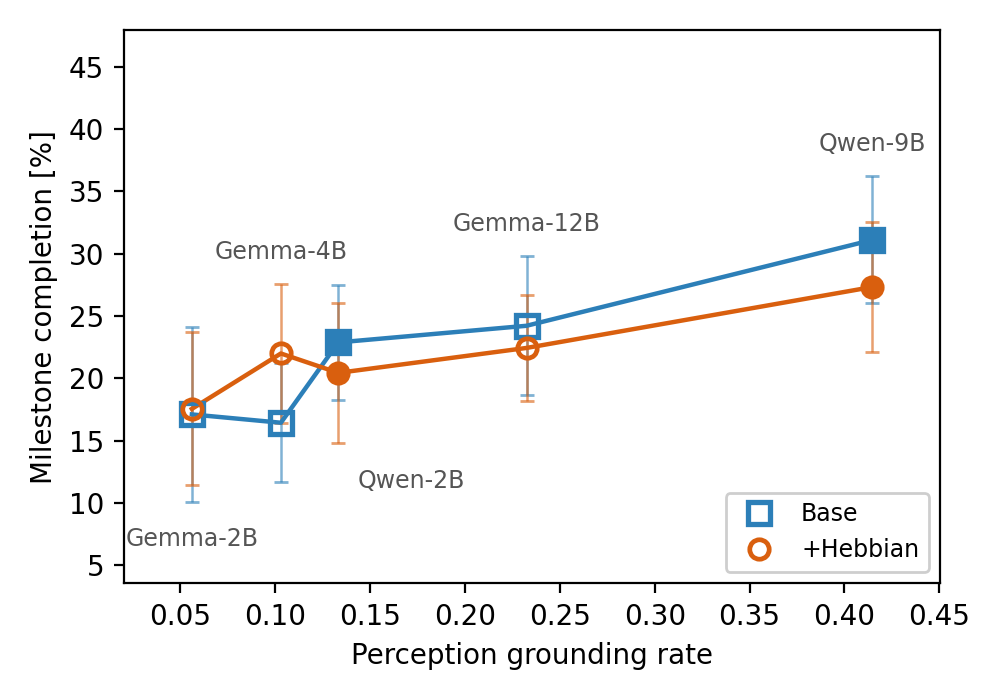
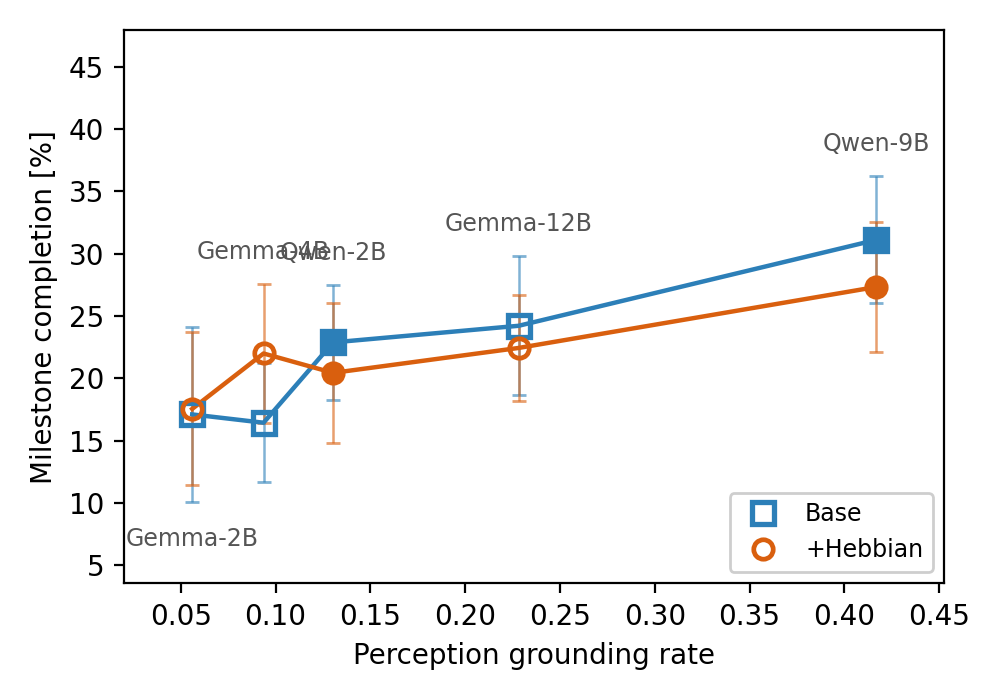
Paper pareto figures: one pooled perception value per model (both arms' runs), used for x and the table rows

diff --git a/scripts/make_pareto_perception_fig.py b/scripts/make_pareto_perception_fig.py
@@ -51,11 +51,16 @@ LABEL_BELOW = {"e2b"}   # models whose label hangs below the lower arm
 
 
 def gather(data, beliefs, sizes, x_key):
-    """{size: {"x": (m, sd), "hal": (m, sd), arm: {"y": (m, sd), "n": n}}}."""
+    """{size: {"x": (m, sd), "hal": (m, sd), arm: {"y": (m, sd)}}}.
+
+    x and hal are ONE value per model, pooled over the runs of BOTH arms:
+    the perception axes are backbone properties (no coupling moves them by
+    more than ~2 pp), so base and +Hebbian share the model's x. y stays
+    per-arm."""
     out = {}
     for size in sizes:
         row = {"family": SIZES[size]["family"]}
-        ok = True
+        gx_all, gp_all, ok = [], [], True
         for arm in ("base", "hebbian"):
             d = data.get((size, arm))
             b = beliefs.get((size, arm), {})
@@ -63,10 +68,12 @@ def gather(data, beliefs, sizes, x_key):
             if not d or not d.get(Y_KEY) or not gx:
                 ok = False
                 break
-            row[arm] = {"x": mean_sd(gx), "y": mean_sd(d[Y_KEY]),
-                        "hal": mean_sd([1.0 - v for v in gp]) if gp else None,
-                        "n": len(gx)}
+            gx_all += gx
+            gp_all += gp
+            row[arm] = {"y": mean_sd(d[Y_KEY]), "n": len(gx)}
         if ok:
+            row["x"] = mean_sd(gx_all)
+            row["hal"] = mean_sd([1.0 - v for v in gp_all]) if gp_all else None
             out[size] = row
         else:
             print("  (skipping {}: incomplete data)".format(size))
@@ -88,13 +95,10 @@ def draw(rows, out_png: Path, xlabel: str, errorbars: str = "none",
     # One line per arm through every model, sorted by x; family on the fill.
     for arm in ("base", "hebbian"):
         st = ARM_STYLE[arm]
-        # BOTH arms sit at the BASE arm's x: the axis is a backbone property
-        # (couplings shift it by <= 2 pp), and per-arm x scattered a model's
-        # two markers so far apart on the partner axis that neighbouring
-        # models interleaved and the point labels became unattributable.
-        # Each model is one vertical base/+Hebbian pair under its label.
-        pts = sorted(((r["base"]["x"][0], r[arm]["y"][0], r["family"],
-                       r["base"]["x"][1], r[arm]["y"][1])
+        # Both arms share the model's pooled x (see gather); each model is
+        # one vertical base/+Hebbian pair under its label.
+        pts = sorted(((r["x"][0], r[arm]["y"][0], r["family"],
+                       r["x"][1], r[arm]["y"][1])
                       for r in rows.values()), key=lambda t: t[0])
         ax.plot([p[0] for p in pts], [p[1] for p in pts], color=st["color"],
                 ls="-", lw=1.6, zorder=2)
@@ -117,13 +121,13 @@ def draw(rows, out_png: Path, xlabel: str, errorbars: str = "none",
     # Point labels: one per model above its higher arm; when a model sits
     # within 10 % of the x-span of its left neighbour the label flips to
     # below-right of the LOWER arm (the social figure's crowd rule).
-    order = sorted(rows, key=lambda s: rows[s]["base"]["x"][0])
-    xs_all = [rows[s]["base"]["x"][0] for s in order]
+    order = sorted(rows, key=lambda s: rows[s]["x"][0])
+    xs_all = [rows[s]["x"][0] for s in order]
     span = (max(xs_all) - min(xs_all)) or 1.0
     prev_x = None
     for size in order:
         r = rows[size]
-        xv = r["base"]["x"][0]          # both arms share the model's x scale
+        xv = r["x"][0]                  # both arms share the model's pooled x
         hi_arm = max(("base", "hebbian"), key=lambda a: r[a]["y"][0])
         lo_arm = min(("base", "hebbian"), key=lambda a: r[a]["y"][0])
         e = 1.0 if errorbars != "none" else 0.0
@@ -175,7 +179,7 @@ def draw(rows, out_png: Path, xlabel: str, errorbars: str = "none",
 def tex_rows(rows) -> str:
     """Rows for tab:pareto_perception: model, grounding, hallucination,
     milestones base / +Heb, delta. Percent with one decimal, sd after \\pmm."""
-    order = sorted(rows, key=lambda s: rows[s]["base"]["x"][0])
+    order = sorted(rows, key=lambda s: rows[s]["x"][0])
     lines = []
     for size in order:
         r = rows[size]
@@ -186,8 +190,8 @@ def tex_rows(rows) -> str:
             " & ${by:.1f}$ \\pmm{{{bs:.1f}}} & ${hy:.1f}$ \\pmm{{{hhs:.1f}}}"
             " & ${d:+.1f}$ \\\\".format(
                 name=SHORT_LABEL.get(size, size),
-                gx=100 * b["x"][0], gs=100 * b["x"][1],
-                hx=100 * b["hal"][0], hs=100 * b["hal"][1],
+                gx=100 * r["x"][0], gs=100 * r["x"][1],
+                hx=100 * r["hal"][0], hs=100 * r["hal"][1],
                 by=b["y"][0], bs=b["y"][1], hy=h["y"][0], hhs=h["y"][1], d=d))
     return "\n".join(lines) + "\n"
 
@@ -229,10 +233,10 @@ def main():
 
     print("  {:<10} {:>7} {:>7} {:>12} {:>12} {:>7}".format(
         "model", "ground", "halluc", "milest base", "milest +Heb", "delta"))
-    for size in sorted(rows, key=lambda s: rows[s]["base"]["x"][0]):
+    for size in sorted(rows, key=lambda s: rows[s]["x"][0]):
         r = rows[size]
         print("  {:<10} {:7.3f} {:7.3f} {:6.1f}±{:<5.1f} {:6.1f}±{:<5.1f} {:+7.1f}".format(
-            SHORT_LABEL.get(size, size), r["base"]["x"][0], r["base"]["hal"][0],
+            SHORT_LABEL.get(size, size), r["x"][0], r["hal"][0],
             r["base"]["y"][0], r["base"]["y"][1], r["hebbian"]["y"][0],
             r["hebbian"]["y"][1], r["hebbian"]["y"][0] - r["base"]["y"][0]))
 

diff --git a/paper_assets_pareto/paper/pareto_perception_rows.tex b/paper_assets_pareto/paper/pareto_perception_rows.tex
@@ -1,5 +1,5 @@
-Gemma-2B & $5.6$ \pmm{0.9} & $8.0$ \pmm{1.9} & $17.1$ \pmm{7.0} & $17.6$ \pmm{6.1} & $+0.4$ \\
-Gemma-4B & $10.3$ \pmm{1.1} & $15.5$ \pmm{1.3} & $16.4$ \pmm{4.8} & $22.0$ \pmm{5.5} & $+5.6$ \\
-Qwen-2B & $13.3$ \pmm{2.8} & $58.3$ \pmm{3.8} & $22.9$ \pmm{4.6} & $20.4$ \pmm{5.6} & $-2.4$ \\
-Gemma-12B & $23.2$ \pmm{2.4} & $12.7$ \pmm{1.2} & $24.2$ \pmm{5.6} & $22.4$ \pmm{4.2} & $-1.8$ \\
-Qwen-9B & $41.5$ \pmm{3.6} & $17.8$ \pmm{1.6} & $31.1$ \pmm{5.1} & $27.3$ \pmm{5.2} & $-3.8$ \\
+Gemma-2B & $5.6$ \pmm{1.3} & $8.0$ \pmm{1.4} & $17.1$ \pmm{7.0} & $17.6$ \pmm{6.1} & $+0.4$ \\
+Gemma-4B & $9.4$ \pmm{2.2} & $15.6$ \pmm{1.6} & $16.4$ \pmm{4.8} & $22.0$ \pmm{5.5} & $+5.6$ \\
+Qwen-2B & $13.0$ \pmm{2.5} & $59.5$ \pmm{3.9} & $22.9$ \pmm{4.6} & $20.4$ \pmm{5.6} & $-2.4$ \\
+Gemma-12B & $22.8$ \pmm{3.1} & $13.5$ \pmm{1.4} & $24.2$ \pmm{5.6} & $22.4$ \pmm{4.2} & $-1.8$ \\
+Qwen-9B & $41.7$ \pmm{3.1} & $18.5$ \pmm{2.3} & $31.1$ \pmm{5.1} & $27.3$ \pmm{5.2} & $-3.8$ \\

diff --git a/.claude/skills/pareto-plots/SKILL.md b/.claude/skills/pareto-plots/SKILL.md
@@ -251,8 +251,11 @@ legend collided with the data on the partner axis. `--legend-loc`:
 lower right (grounding default) / lower left (partner).
 Both arms are plotted at the BASE arm's x (backbone property, couplings
 shift it <=2pp): per-arm x interleaved neighbouring models on the
-partner axis and made the labels unattributable. Captions must say
-"x is the base arm's <rate>".
+partner axis and made the labels unattributable. Since 2026-09-02 the shared x is POOLED over both
+arms' runs (n=12), not the base arm's: one perception value per model,
+matching tab:perception_by_model's backbone-property claim. tex rows'
+Ground./Halluc. columns are pooled too. Captions must say "x is the
+backbone's <rate>, pooled over both arms".
 LABEL_BELOW hangs the leftmost model's label under its lower arm — the
 segment climbing to Gemma-4B crosses an above-label. Paper side: the new
 section is \input in results.tex before the RQ2 heading; tab:final_comparison
